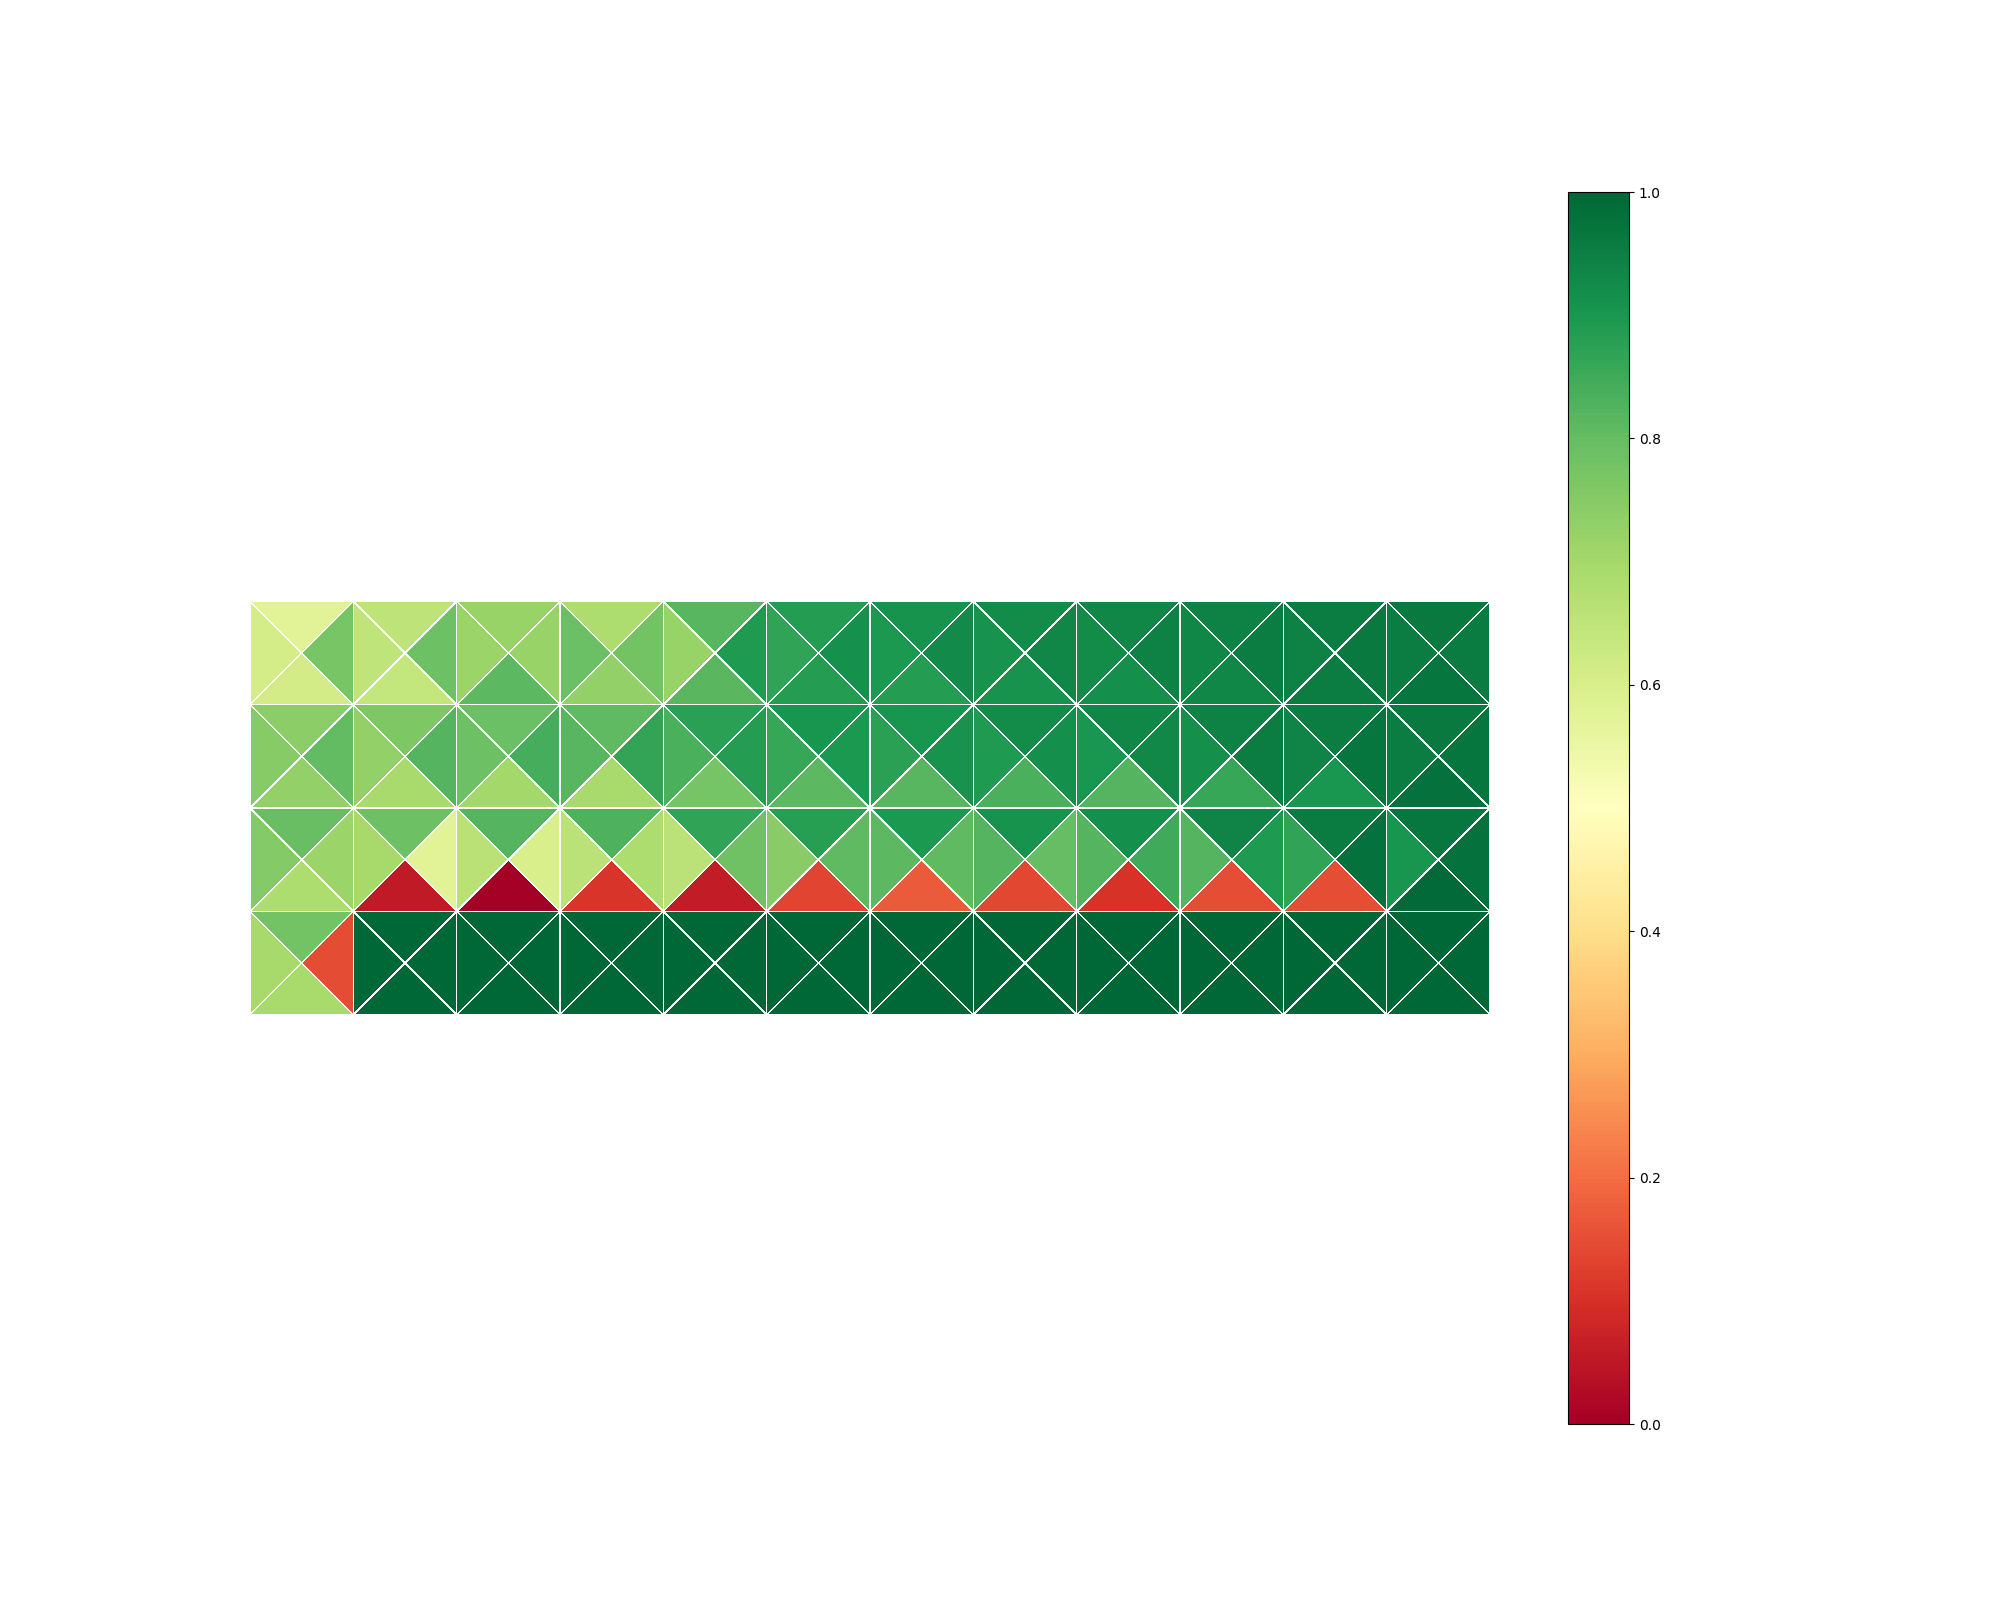
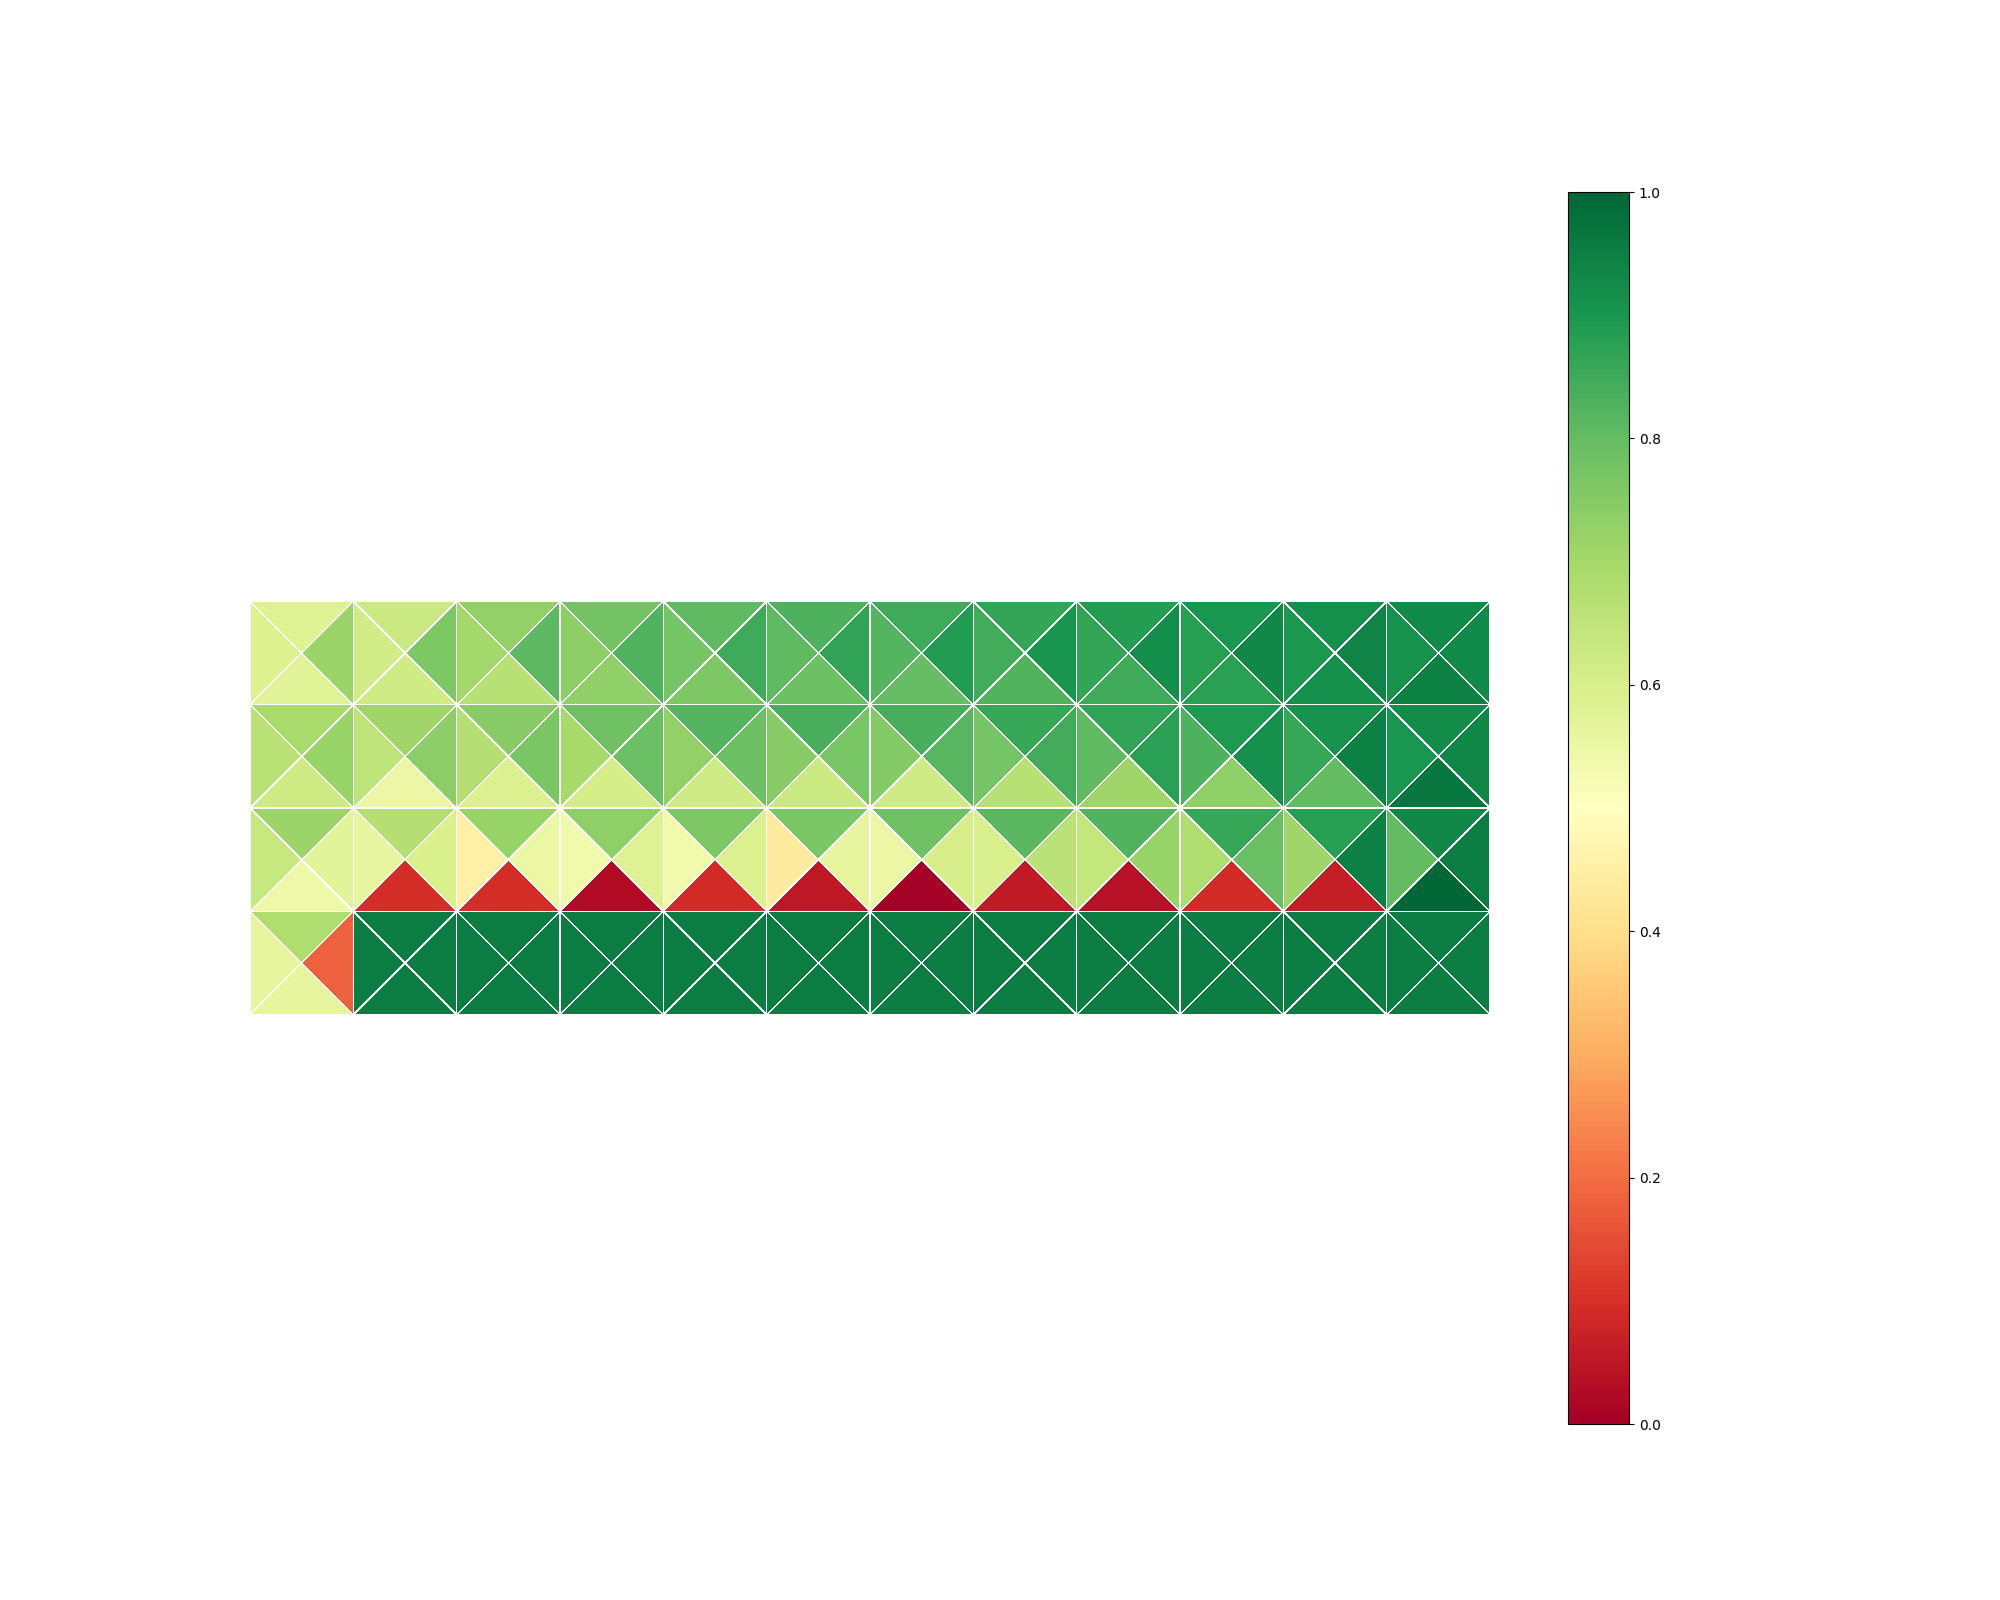
reduced epsilon to take more random actions

Changed region(s): [[0.124, 0.375, 0.713, 0.6562]]

diff --git a/model-free/monte-carlo/mc-active/active-mc.py b/model-free/monte-carlo/mc-active/active-mc.py
@@ -3,6 +3,7 @@ import matplotlib.pyplot as plt
 import gymnasium as gym
 from matplotlib.patches import Rectangle
 from matplotlib.tri import Triangulation
+import time
 import random
 
 def get_return(state_list, gamma):
@@ -136,6 +137,7 @@ def play_game(optimal_policy):
     env = gym.make('CliffWalking-v0', render_mode="human")
     observation, info = env.reset(seed=42)
     num_actions = 0
+    time.sleep(5)
     while True:
         action = int(optimal_policy[observation]) # take action based on policy.
         new_observation, _, terminated, truncated, _ = env.step(action)
@@ -198,7 +200,7 @@ def main():
     ## initialize episodes
     tot_epoch = 500000
     # e-greedy policy
-    epsilon = 0.7
+    epsilon = 0.5
     # make the environment
     env = gym.make('CliffWalking-v0', render_mode="None")
     state_len = env.nS
